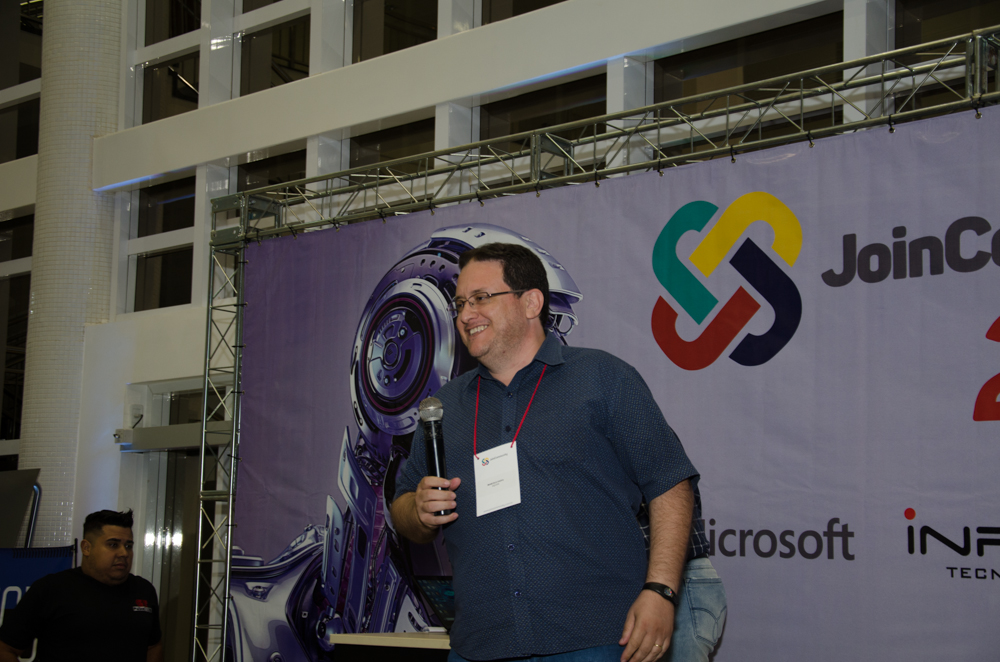
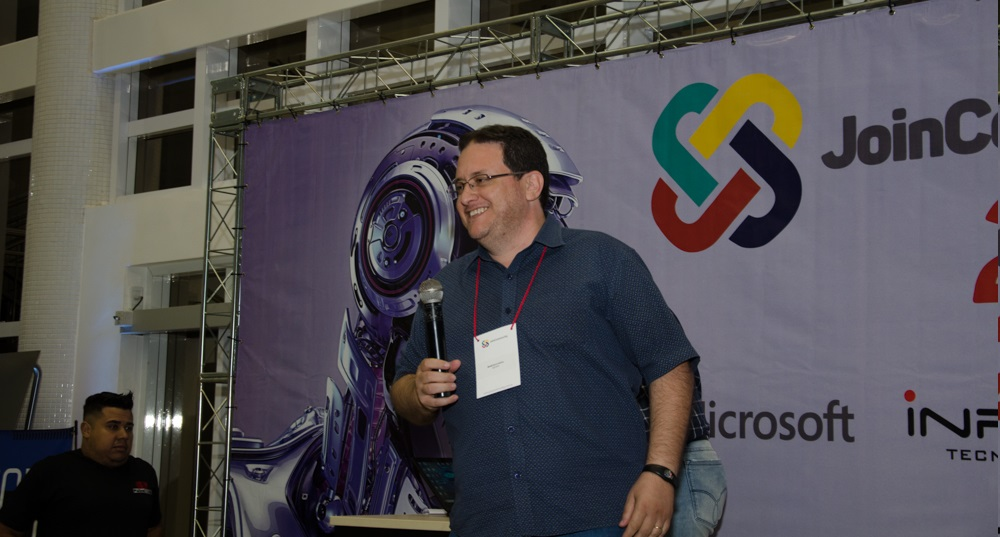
Update Palestrantes

diff --git a/index.html b/index.html
@@ -401,7 +401,7 @@
                                         </li>
                                         <li class="event">
                                             <div class="row">
-                                                <div class="col-md-3 col-md-push-9 text-center"><img src="img/palestra/palestra.jpg" alt="schedule-speaker" data-no-retina></div>
+                                                <div class="col-md-3 col-md-push-9 text-center"><img src="img/palestra/sebastiao.jpg" alt="schedule-speaker" data-no-retina></div>
                                                 <div class="col-md-9 col-md-pull-3">
                                                     <p>20:30h</p>
                                                     <h4>Como manter seu ambiente OCI seguro com Cloud Guard</h4>
@@ -647,6 +647,78 @@
                                     </figcaption>
                                 </figure>
                                 <a href="#0" data-type="speaker-8" class="bttn">Ver Bio</a>
+                            </div>
+                            <!--event-speaker end-->
+
+                        </div>         
+
+                        <div class="item">
+
+                            <!--event-speaker-->
+                            <div class="event-speaker">
+                                <figure>
+                                    <img src="img/speaker2/raphael.jpg" alt="event-speaker" data-no-retina>
+                                    <figcaption>
+                                        <h4>Raphael Moura</h4>
+                                        <p>Senior Cloud Solutions Architect</p>
+
+                                        <!--social-->
+                                        <ul class="social">
+                                            <li><a href="https://www.linkedin.com/in/raphamoura" target="_blank"><i class="fa fa-user"></i></a></li>
+                                        </ul>
+                                        <!--social end-->
+
+                                    </figcaption>
+                                </figure>
+                                <a href="#0" data-type="speaker-9" class="bttn">Ver Bio</a>
+                            </div>
+                            <!--event-speaker end-->
+
+                        </div>     
+
+                        <div class="item">
+
+                            <!--event-speaker-->
+                            <div class="event-speaker">
+                                <figure>
+                                    <img src="img/speaker2/renatto.jpg" alt="event-speaker" data-no-retina>
+                                    <figcaption>
+                                        <h4>Renatto Machado</h4>
+                                        <p>Ex CTO | Founder da fintech Pilla</p>
+
+                                        <!--social-->
+                                        <ul class="social">
+                                            <li><a href="https://www.linkedin.com/in/renattomachado" target="_blank"><i class="fa fa-user"></i></a></li>
+                                        </ul>
+                                        <!--social end-->
+
+                                    </figcaption>
+                                </figure>
+                                <a href="#0" data-type="speaker-10" class="bttn">Ver Bio</a>
+                            </div>
+                            <!--event-speaker end-->
+
+                        </div>
+
+                        <div class="item">
+
+                            <!--event-speaker-->
+                            <div class="event-speaker">
+                                <figure>
+                                    <img src="img/speaker2/sebastiao.jpg" alt="event-speaker" data-no-retina>
+                                    <figcaption>
+                                        <h4>Sebastião Santos</h4>
+                                        <p>CTO na 3DB Consultoria</p>
+
+                                        <!--social-->
+                                        <ul class="social">
+                                            <li><a href="https://www.linkedin.com/in/sebastiao3db" target="_blank"><i class="fa fa-user"></i></a></li>
+                                        </ul>
+                                        <!--social end-->
+
+                                    </figcaption>
+                                </figure>
+                                <a href="#0" data-type="speaker-11" class="bttn">Ver Bio</a>
                             </div>
                             <!--event-speaker end-->
 
@@ -950,6 +1022,37 @@
             </div>
         </div>
         <!-- speaker bio 8 end-->
+        <!-- speaker bio 9-->
+        <div class="cd-speaker-bio speaker-9">
+            <div class="cd-speaker-bio-pict"> <img src="img/speaker2/raphael2.png" alt="speaker Bio image" data-no-retina> </div>
+            <div class="cd-bio-content">
+                <h2>Raphael Moura</h2>
+                <p>Arquiteto Senior com 6 anos de vivência na area, com 3 destes sendo em computação em nuvem e background de segurança. 3x Certificado AWS, dentre elas Security Specialty</p>
+            </div>
+        </div>
+        <!-- speaker bio 9 end-->
+        <!-- speaker bio 10-->
+        <div class="cd-speaker-bio speaker-10">
+            <div class="cd-speaker-bio-pict"> <img src="img/speaker2/renatto2.png" alt="speaker Bio image" data-no-retina> </div>
+            <div class="cd-bio-content">
+                <h2>Renatto Machado</h2>
+                <p>Ex CTO do Hub CONEXA, no Grupo SIAGRI e responsável pela construção do produto de várias startups. É Cientista de Computação, MCP em Web Applications e tem mais de 15 anos de experiência em tecnologia.
+                    </p>
+                    <p>Atualmente é cofundando de uma fintech com o propósito de ajudar pessoas de baixa e média renda a saírem das dívidas, a Pilla.</p>
+            </div>
+        </div>
+        <!-- speaker bio 10 end-->
+        <!-- speaker bio 11-->
+        <div class="cd-speaker-bio speaker-11">
+            <div class="cd-speaker-bio-pict"> <img src="img/speaker2/sebastiao2.png" alt="speaker Bio image" data-no-retina> </div>
+            <div class="cd-bio-content">
+                <h2>Sebastião Santos</h2>
+                <p>Sebastião Santos é especialista em segurança e infraestrutura, hoje coordena as soluções complexas e arquitetura de soluções em Infraestrutura, Cloud e DevOps. Com mais de 19 anos de experiência em infraestrutura, redes e segurança ele detém inúmeras certificações na área. Tendo atuado em projetos de grande porte e alta complexidade por todo o Brasil. 
+                </p>
+                <p>Ele também é responsável por garantir a segurança em níveis de dados, acessos, auditorias e a continuidade dos serviços de TI.</p>
+            </div>
+        </div>
+        <!-- speaker bio 11 end-->
 
         <a href="#0" class="cd-speaker-bio-close">Close</a>
     </div>
